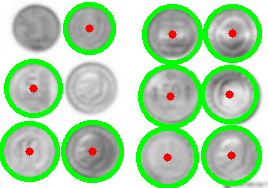
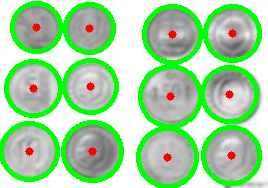
hough circle transform extended

diff --git a/HoughCircleTransform-2/Hough-Ex2.py b/HoughCircleTransform-2/Hough-Ex2.py
@@ -1,0 +1,37 @@
+import cv2 as cv
+import numpy as np
+import argparse
+
+# konsoldan çalıştırmak için:
+# python Hough-Ex2.py -i ../input_pictures/input_bobin.png
+
+ap = argparse.ArgumentParser()
+ap.add_argument("-i", "--image", required=True, help="Path of image")
+args = vars(ap.parse_args())
+
+img = cv.imread(args["image"])
+img2 = img.copy()
+img = cv.cvtColor(img, cv.COLOR_BGR2GRAY)
+img = cv.GaussianBlur(img, (7, 7), 1.5)
+img = cv.Canny(img, 50, 120)
+
+cv.imshow("image with blur and grayscale", img)
+circles = cv.HoughCircles(img, cv.HOUGH_GRADIENT, 1, 20, param1=50, param2=30, minRadius=0, maxRadius=0)
+
+# param1 : Upper threshold for the internal Canny edge detector.
+# param2 : Threshold for center detection.
+
+
+# dp 0 ile 2 arasında double sayılar olmalı
+# param2 küçükse yanlış daireler de algılıyor
+circles = np.uint16(np.around(circles))
+
+for c in circles[0, :]:
+    print(c)  # x, y, r
+    cv.circle(img2, (c[0], c[1]), c[2], (0, 255, 0), 2)
+    cv.circle(img2, (c[0], c[1]), 1, (0, 0, 255), 3)
+
+cv.imshow(" output img", img2)
+# cv.imshow("img", np.hstack([img, img2]))
+cv.waitKey(0)
+cv.imwrite("houghcircle-ex2.png", img2)

diff --git a/HoughCircleTransform-2/Hough-Ex1.py b/HoughCircleTransform-2/Hough-Ex1.py
@@ -1,0 +1,34 @@
+import cv2 as cv
+import numpy as np
+import argparse
+
+# konsoldan çalıştırmak için:
+# python Hough-Ex1.py -i ../input_pictures/soda.png
+
+# minDist çok küçük olursa daire olmayan yerlerde bile daire algılayabiliriz.
+# minDist çok büyük olursa bazı daireleri algılayamayabiliriz
+ap = argparse.ArgumentParser()
+ap.add_argument("-i", "--image", required=True, help="Path of image")
+args = vars(ap.parse_args())
+
+img = cv.imread(args["image"])
+img2 = img.copy()  # bu işlemi yaptığım yere göre outputun size'ı(kB) değişiyor.
+
+img = cv.GaussianBlur(img, (7, 7), 1.5)
+
+
+img = cv.cvtColor(img, cv.COLOR_BGR2GRAY)
+
+circles = cv.HoughCircles(img, cv.HOUGH_GRADIENT, 1.3, 30, param1=60, param2=70)
+
+# param2 küçükse yanlış daireler de algılıyor
+circles = np.uint16(np.around(circles))
+
+for c in circles[0, :]:
+    cv.circle(img2, (c[0], c[1]), c[2], (0, 255, 0), 2)
+    cv.circle(img2, (c[0], c[1]), 1, (0, 0, 255), 3)
+
+cv.imshow("img", img2)
+# cv.imshow("img", np.hstack([img, img2]))
+cv.waitKey(0)
+cv.imwrite("houghcircle-ex1.png", img2)

diff --git a/HoughCircleTransform/HoughCircle.py b/HoughCircleTransform/HoughCircle.py
@@ -9,12 +9,11 @@ import numpy as np
 # Bu yüzden, eğer biliyorsak yarıçap aralığını minRadius ve maxRadius ile belirtmeliyiz!
 # Yarıçap aratmadan sadece merkezleri döndürmek için maxRadius'u negatif yap.
 
-
 img = cv.imread("../input_pictures/input_money.png", 0)
-img = cv.GaussianBlur(img, (7, 7), 1.5)  # Bu kısmı idedeki dökümanda özellikle belirtmiş GaussianBlur() with 7x7
+img = cv.GaussianBlur(img, (7, 7), 1.5)  # Bu kısmı idedeki dökümanda belirtmiş GaussianBlur() with 7x7
 # kernel and 1.5 sigma !!!!! False negatifi baya azalttı.
 cimg = cv.cvtColor(img, cv.COLOR_GRAY2BGR)
-circles = cv.HoughCircles(img, cv.HOUGH_GRADIENT, 1.3, 30, param1=150, param2=80, minRadius=0, maxRadius=0)
+circles = cv.HoughCircles(img, cv.HOUGH_GRADIENT, 1.3, 30, param1=150, param2=70, minRadius=0, maxRadius=0)
 # ide dökümanında param1 için 300 civarı iyi diyor. 60 gibi düşük değerler verdiğimde bazılarını algılayamamıştı.
 # param2 için küçük değerler verince false positive çok artıyor.
 

diff --git a/GUIFeatures/Trackbar/Trackbar.py b/GUIFeatures/Trackbar/Trackbar.py
@@ -1,0 +1,32 @@
+import numpy as np
+import cv2 as cv
+
+
+def nothing(x):
+    pass
+
+
+img = np.zeros((300, 512, 3), np.uint8)
+cv.namedWindow('image')
+
+cv.createTrackbar('R', 'image', 0, 255, nothing)
+cv.createTrackbar('G', 'image', 0, 255, nothing)
+cv.createTrackbar('B', 'image', 0, 255, nothing)
+
+switch = '0 : OFF \n1 : ON'
+cv.createTrackbar(switch, 'image', 0, 1, nothing)
+while True:
+    cv.imshow('image', img)
+    k = cv.waitKey(1) & 0xFF
+    if k == 27:  # ESC
+        break
+
+    r = cv.getTrackbarPos('R', 'image')
+    g = cv.getTrackbarPos('G', 'image')
+    b = cv.getTrackbarPos('B', 'image')
+    s = cv.getTrackbarPos(switch, 'image')
+    if s == 0:
+        img[:] = 0
+    else:
+        img[:] = [b, g, r]
+cv.destroyAllWindows()

diff --git a/ImagePyramids/ImagePyramids.py b/ImagePyramids/ImagePyramids.py
@@ -1,4 +1,5 @@
 import cv2 as cv
+import sys
 
 # Normalde sabit boyutlu bir görüntü ile çalışıyorduk.
 # Ancak bazı durumlarda aynı görüntünün farklı çözünürlükleriyle çalışmamız gerekir.
@@ -9,7 +10,11 @@ import cv2 as cv
 
 """ 1. Gaussian Pyramids *********************************"""
 
-gray = cv.imread("../input_pictures/input_agac.png")
+gray = cv.imread(cv.samples.findFile("../input_pictures/input_agac.png"))
+
+if gray is None:
+    sys.exit("coulnt read the image")
+
 lower_reso = cv.pyrDown(gray)  # level_1
 cv.imwrite("lower_reso.png", lower_reso)
 

diff --git a/GUIFeatures/DrawingFunctions/Drawing.py b/GUIFeatures/DrawingFunctions/Drawing.py
@@ -1,0 +1,17 @@
+import numpy as np
+import cv2 as cv
+
+
+def draw_circle(event, x, y, flags, param):
+    if event == cv.EVENT_LBUTTONDBLCLK:  # çift tıklamada çizer
+        cv.circle(img, (x, y), 100, (200, 110, 200), -1)
+
+
+img = np.zeros((515, 1000, 3), np.uint8)  # pencere boyutları
+cv.namedWindow('img')
+cv.setMouseCallback('img', draw_circle)
+while True:
+    cv.imshow('img', img)
+    if cv.waitKey(20) & 0xFF == 27:  # esc ye basınca çıkış
+        break
+cv.destroyAllWindows()

diff --git a/GUIFeatures/VideoFromCamera/SaveVideo.py b/GUIFeatures/VideoFromCamera/SaveVideo.py
@@ -1,0 +1,18 @@
+import cv2 as cv
+
+cap = cv.VideoCapture(0)
+fourcc = cv.VideoWriter_fourcc(*'DIVX')
+out = cv.VideoWriter('output.avi', fourcc, 20.0, (640,  480))
+while cap.isOpened():
+    ret, frame = cap.read()
+    if not ret:
+        print("Can't receive the frame")
+        break
+    frame = cv.flip(frame, 0)
+    out.write(frame)
+    cv.imshow('frame', frame)
+    if cv.waitKey(1) == ord('q'):
+        break
+cap.release()
+out.release()
+cv.destroyAllWindows()

diff --git a/GUIFeatures/VideoFromCamera/CaptureVideo.py b/GUIFeatures/VideoFromCamera/CaptureVideo.py
@@ -1,0 +1,17 @@
+import cv2 as cv
+
+cap = cv.VideoCapture(0)  # 1'de ikinci kamerayı açar
+if not cap.isOpened():
+    print("Cant open the camera")
+    exit()
+while True:
+    ret, frame = cap.read()  # frameleri döner
+    if not ret:
+        print("Cant receive frame")
+        break
+    gray = cv.cvtColor(frame, cv.COLOR_BGR2GRAY)
+    cv.imshow('frame', gray)
+    if cv.waitKey() == ord('s'):
+        break
+cap.release()
+cv.destroyAllWindows()

diff --git a/GUIFeatures/VideoFromCamera/PlayingVideo.py b/GUIFeatures/VideoFromCamera/PlayingVideo.py
@@ -1,0 +1,14 @@
+import cv2 as cv
+
+cap = cv.VideoCapture('output.avi')
+while cap.isOpened():
+    ret, frame = cap.read()
+    if not ret:
+        print("Can't receive the frame")
+        break
+    gray = cv.cvtColor(frame, cv.COLOR_BGR2GRAY)
+    cv.imshow('frame', gray)
+    if cv.waitKey(1) == ord('q'):
+        break
+cap.release()
+cv.destroyAllWindows()

diff --git a/ImageSegmentationWithWatershedAlg/WatershedAlg.py b/ImageSegmentationWithWatershedAlg/WatershedAlg.py
@@ -1,0 +1,3 @@
+import cv2 as cv
+import numpy as np
+
